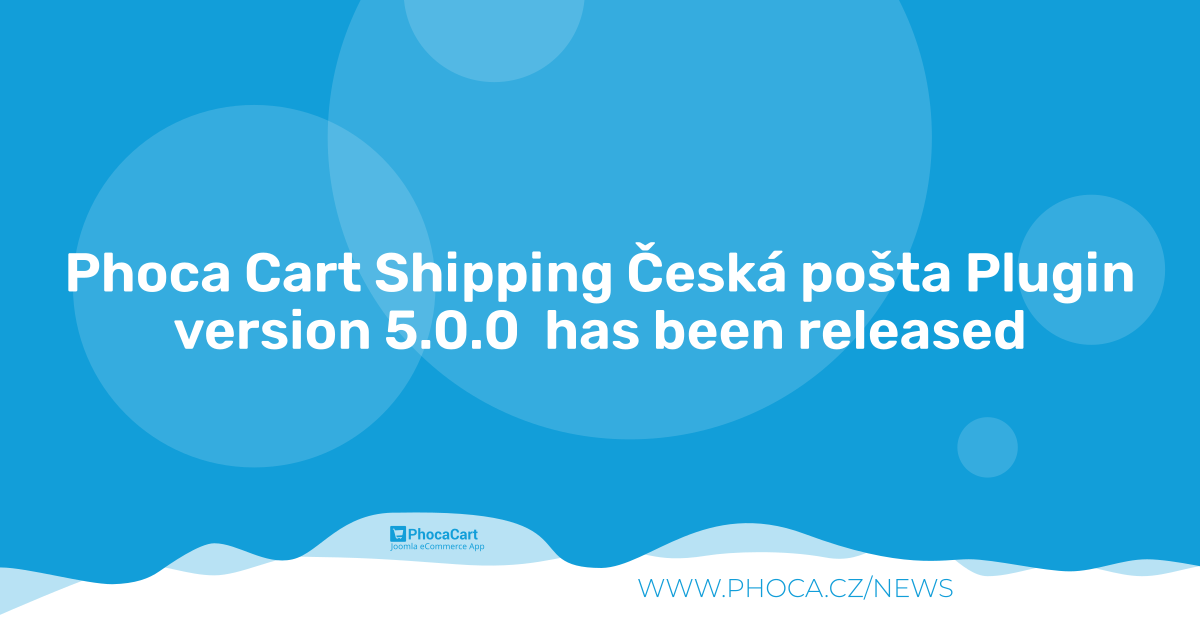
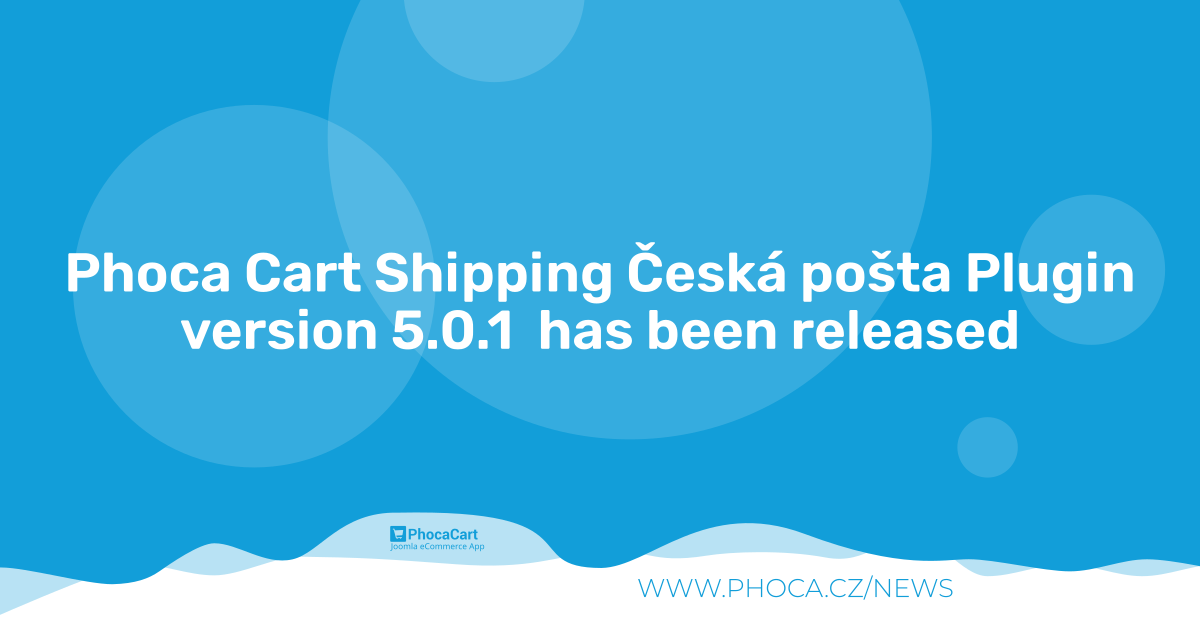
5.0.1

Changed region(s): [[0.1233, 0.4825, 0.8633, 0.573]]

diff --git a/media/js/ceskaposta.js b/media/js/ceskaposta.js
@@ -116,7 +116,7 @@ async function showCeskapostaSelectedPickupPoint(point) {
         if (phParamsPlgPcsCeskaposta[selectedShippingMethod]['fields'].length !== 0) {
             for (let index = 0; index < phParamsPlgPcsCeskaposta[selectedShippingMethod]['fields'].length; ++index) {
                 const element = phParamsPlgPcsCeskaposta[selectedShippingMethod]['fields'][index];
-                var elementId = 'ceskaposta-field-' + element;
+                let elementId = 'ceskaposta-field-' + element + selectedShippingMethodSuffix;
                 document.getElementById(elementId).value = '';
             }
         }

diff --git a/README.MD b/README.MD
@@ -56,7 +56,7 @@ Phoca Cart Shipping - Shipping Česká pošta Plugin - shipping method for Phoca
 
 ## Version (Joomla! 5.x)
 
-5.0.0
+5.0.1
 
 
 
